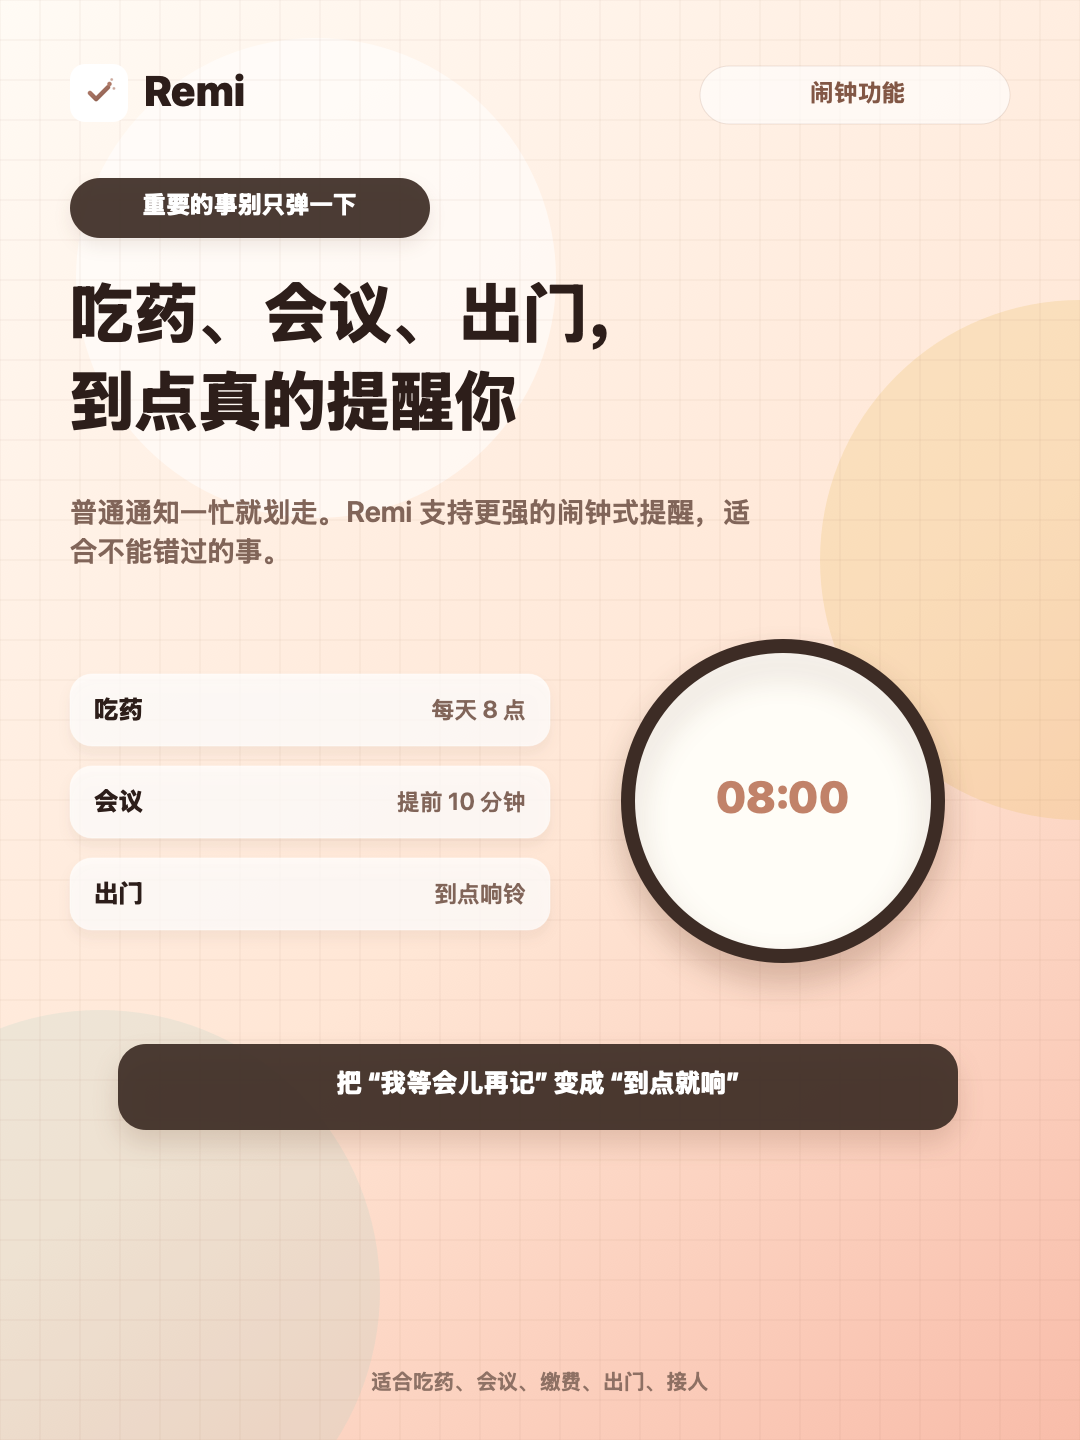
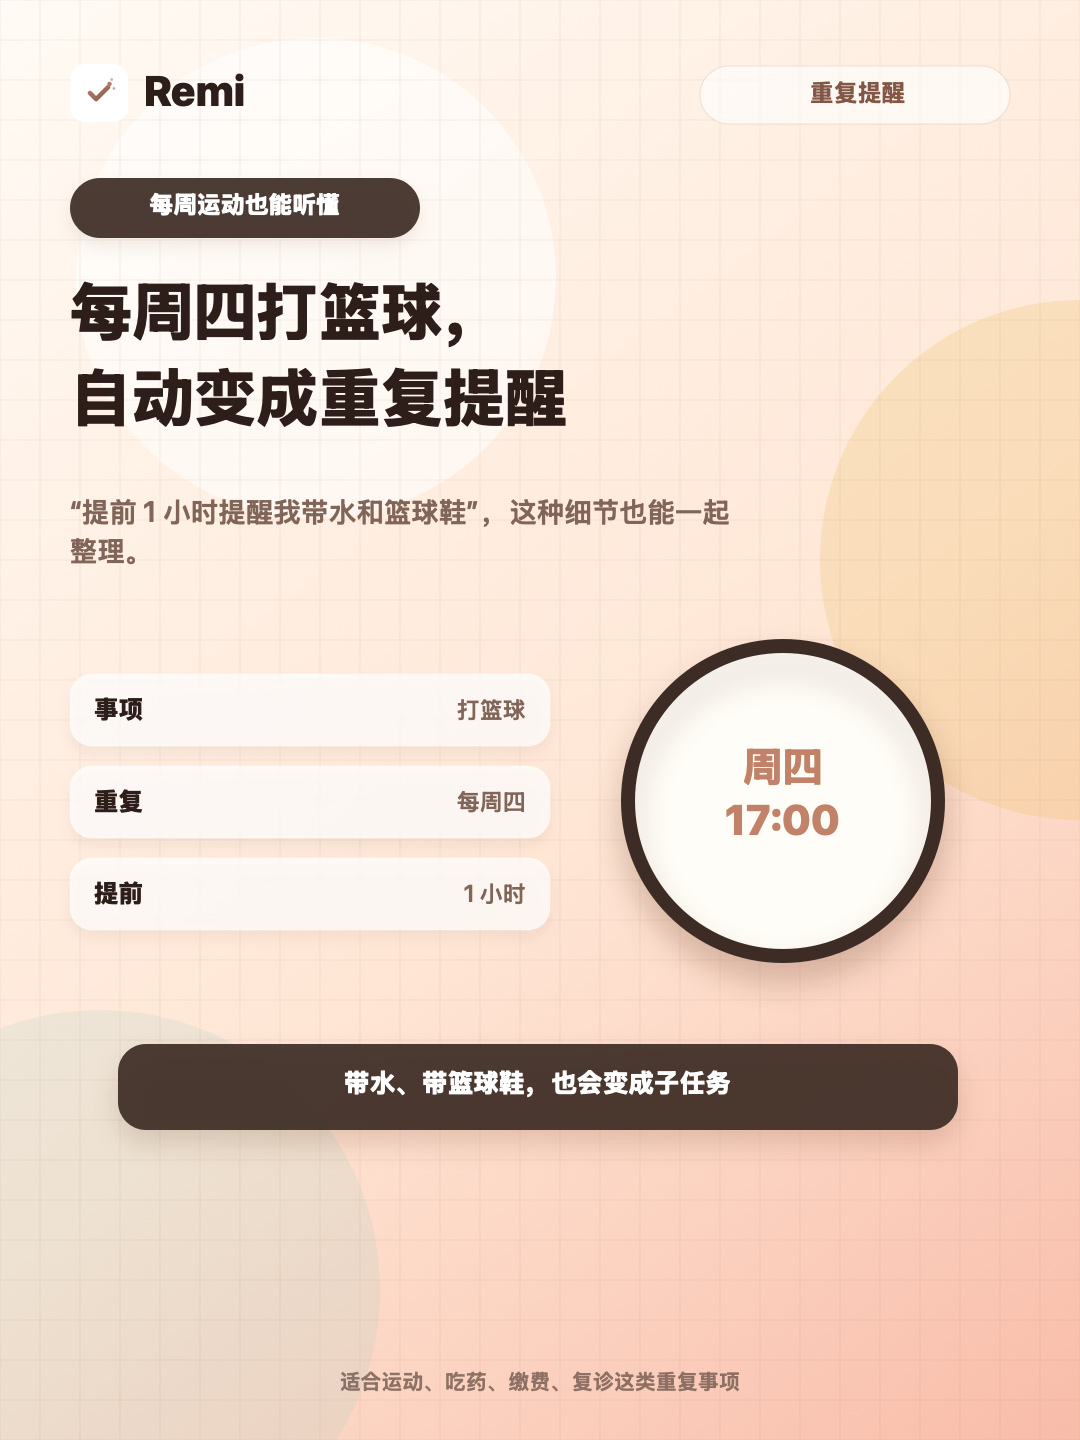
Add Xiaohongshu promo assets for Remi article
Generate a Xiaohongshu-ready caption and update the poster generator/output images around the article examples: supermarket list, weekly basketball reminder, and wake-up alarm.

diff --git a/xhs-posters/generate.swift b/xhs-posters/generate.swift
@@ -156,105 +156,93 @@ func render(_ name: String, warm: Bool = true, draw: () -> Void) throws {
 
 try render("remi-xhs-01.png") {
     drawBrand(tag: "AI 提醒 + 闹钟")
-    drawPill("想到就说，不用打字", x: 70, y: 178, w: 340)
-    drawText("懒得填表的人，\n真的需要 Remi", x: 70, y: 270, w: 630, h: 200, size: 74, weight: .heavy, lineSpacing: 8)
-    drawText("说一句话，AI 自动建提醒；重要的事还能像闹钟一样叫你。", x: 70, y: 492, w: 570, h: 92, size: 29, weight: .semibold, color: Palette.muted)
+    drawPill("手动填提醒太麻烦？", x: 70, y: 178, w: 380)
+    drawText("说一句话，\nAI 帮你建好提醒", x: 70, y: 270, w: 660, h: 200, size: 72, weight: .heavy, lineSpacing: 8)
+    drawText("超市清单、每周运动、起床闹钟，都可以自然说出来。Remi 自动整理好标题、时间和子任务。", x: 70, y: 492, w: 600, h: 116, size: 29, weight: .semibold, color: Palette.muted)
     drawChip("语音速记", x: 70, y: 620, w: 150)
     drawChip("AI 整理", x: 238, y: 620, w: 138)
     drawChip("闹钟提醒", x: 394, y: 620, w: 150)
     drawChip("中英双语", x: 70, y: 690, w: 150)
     drawPhone("voice", x: 640, y: 520, w: 350)
     fillRounded(r(70, 1022, 500, 92), radius: 28, color: Palette.dark.withAlphaComponent(0.92), shadow: shadow())
-    drawText("普通通知容易错过，\n重要的事要响起来。", x: 102, y: 1040, w: 436, h: 56, size: 26, weight: .heavy, color: .white, align: .center, lineSpacing: 3)
-    drawFooter("评论「提醒」获取下载 / 内测链接")
+    drawText("想到就说，不用填表", x: 102, y: 1050, w: 436, h: 36, size: 27, weight: .heavy, color: .white, align: .center)
+    drawFooter("Remi 已上架 App Store · 7 天免费试用")
 }
 
 try render("remi-xhs-02.png") {
-    drawBrand(tag: "语音速记")
-    drawPill("一句话创建提醒", x: 70, y: 178, w: 300)
-    drawText("走路、做饭、\n通勤时，直接说", x: 70, y: 270, w: 600, h: 190, size: 72, weight: .heavy, lineSpacing: 8)
-    drawText("不用切到日历，不用一个个选时间，把脑子里的事先倒出来。", x: 70, y: 492, w: 560, h: 92, size: 29, weight: .semibold, color: Palette.muted)
+    drawBrand(tag: "一句话输入")
+    drawPill("把脑子里的事直接倒出来", x: 70, y: 178, w: 440)
+    drawText("这一整段，\n可以直接说给 Remi", x: 70, y: 270, w: 760, h: 190, size: 68, weight: .heavy, lineSpacing: 8)
+    drawText("不用分三次创建，也不用手动选重复、提前提醒和闹钟。", x: 70, y: 492, w: 680, h: 82, size: 29, weight: .semibold, color: Palette.muted)
     drawPhone("voice", x: 92, y: 640, w: 340)
-    fillRounded(r(456, 710, 520, 132), radius: 34, color: Palette.dark.withAlphaComponent(0.94), shadow: shadow(30, y: -16, alpha: 0.20))
-    drawText("“明天早上 8 点叫我吃药，\n提前 10 分钟响。”", x: 492, y: 736, w: 448, h: 78, size: 28, weight: .heavy, color: .white, align: .center)
-    fillRounded(r(506, 884, 410, 92), radius: 28, color: color(1, 1, 1, 0.78), shadow: shadow(18, y: -10, alpha: 0.10))
-    drawText("Remi 会把这句话变成\n一条可提醒的任务。", x: 532, y: 904, w: 358, h: 56, size: 23, weight: .bold, color: Palette.muted, align: .center)
-    drawFooter("适合突然想起事情、但不想打字的时刻")
+    fillRounded(r(456, 650, 520, 258), radius: 34, color: Palette.dark.withAlphaComponent(0.94), shadow: shadow(30, y: -16, alpha: 0.20))
+    drawText("“下午 4 点去超市，\n买苹果、西瓜、牛奶、洗发水。\n每周四 5 点打篮球，\n提前 1 小时提醒。\n明天早上 9 点叫我起床。”", x: 492, y: 676, w: 448, h: 206, size: 25, weight: .heavy, color: .white, align: .center, lineSpacing: 5)
+    fillRounded(r(506, 944, 410, 92), radius: 28, color: color(1, 1, 1, 0.78), shadow: shadow(18, y: -10, alpha: 0.10))
+    drawText("AI 自动拆成\n多个结构化提醒。", x: 532, y: 964, w: 358, h: 56, size: 23, weight: .bold, color: Palette.muted, align: .center)
+    drawFooter("适合突然想起一堆事、但不想打字的时刻")
 }
 
 try render("remi-xhs-03.png") {
     drawBrand(tag: "AI 智能整理")
-    drawPill("不是只记一句话", x: 70, y: 178, w: 310)
-    drawText("AI 帮你拆好\n时间、清单和子任务", x: 70, y: 270, w: 780, h: 190, size: 68, weight: .heavy, lineSpacing: 8)
-    drawText("自然说话也能变成结构化提醒，少一步手动编辑。", x: 70, y: 490, w: 610, h: 70, size: 29, weight: .semibold, color: Palette.muted)
-    drawRow("标题", value: "吃药", x: 70, y: 650, w: 470)
-    drawRow("时间", value: "明天 8:00", x: 70, y: 742, w: 470)
-    drawRow("清单", value: "健康", x: 70, y: 834, w: 470)
-    drawRow("提醒", value: "提前 10 分钟", x: 70, y: 926, w: 470)
+    drawPill("超市清单自动拆好", x: 70, y: 178, w: 350)
+    drawText("去超市这件事，\n不用再手动列清单", x: 70, y: 270, w: 780, h: 190, size: 68, weight: .heavy, lineSpacing: 8)
+    drawText("一句“下午 4 点去超市买东西”，Remi 会整理成提醒 + 可勾选子任务。", x: 70, y: 490, w: 690, h: 90, size: 29, weight: .semibold, color: Palette.muted)
+    drawRow("提醒", value: "下午 4:00 去超市", x: 70, y: 650, w: 520)
+    drawRow("子任务", value: "苹果 / 西瓜", x: 70, y: 742, w: 520)
+    drawRow("子任务", value: "一箱牛奶", x: 70, y: 834, w: 520)
+    drawRow("子任务", value: "洗发水", x: 70, y: 926, w: 520)
     drawPhone("details", x: 626, y: 555, w: 360)
-    drawFooter("离线时也有本地解析兜底")
+    drawFooter("到超市后，打开清单一个个勾掉")
 }
 
 try render("remi-xhs-04.png") {
-    drawBrand(tag: "闹钟功能")
-    drawPill("重要的事别只弹一下", x: 70, y: 178, w: 360)
-    drawText("吃药、会议、出门，\n到点真的提醒你", x: 70, y: 270, w: 780, h: 190, size: 68, weight: .heavy, lineSpacing: 8)
-    drawText("普通通知一忙就划走。Remi 支持更强的闹钟式提醒，适合不能错过的事。", x: 70, y: 494, w: 700, h: 92, size: 29, weight: .semibold, color: Palette.muted)
+    drawBrand(tag: "重复提醒")
+    drawPill("每周运动也能听懂", x: 70, y: 178, w: 350)
+    drawText("每周四打篮球，\n自动变成重复提醒", x: 70, y: 270, w: 800, h: 190, size: 66, weight: .heavy, lineSpacing: 8)
+    drawText("“提前 1 小时提醒我带水和篮球鞋”，这种细节也能一起整理。", x: 70, y: 494, w: 700, h: 92, size: 29, weight: .semibold, color: Palette.muted)
     fillRounded(r(628, 646, 310, 310), radius: 155, color: color(1, 0.99, 0.96), shadow: shadow(34, y: -18, alpha: 0.22), stroke: Palette.dark, lineWidth: 14)
-    drawText("08:00", x: 682, y: 770, w: 202, h: 62, size: 44, weight: .heavy, color: Palette.clay, align: .center)
-    drawRow("吃药", value: "每天 8 点", x: 70, y: 674, w: 480)
-    drawRow("会议", value: "提前 10 分钟", x: 70, y: 766, w: 480)
-    drawRow("出门", value: "到点响铃", x: 70, y: 858, w: 480)
+    drawText("周四\n17:00", x: 682, y: 740, w: 202, h: 104, size: 42, weight: .heavy, color: Palette.clay, align: .center, lineSpacing: 4)
+    drawRow("事项", value: "打篮球", x: 70, y: 674, w: 480)
+    drawRow("重复", value: "每周四", x: 70, y: 766, w: 480)
+    drawRow("提前", value: "1 小时", x: 70, y: 858, w: 480)
     fillRounded(r(118, 1044, 840, 86), radius: 28, color: Palette.dark.withAlphaComponent(0.92), shadow: shadow())
-    drawText("把“我等会儿再记”变成“到点就响”", x: 150, y: 1066, w: 776, h: 42, size: 27, weight: .heavy, color: .white, align: .center)
-    drawFooter("适合吃药、会议、缴费、出门、接人")
+    drawText("带水、带篮球鞋，也会变成子任务", x: 150, y: 1066, w: 776, h: 42, size: 27, weight: .heavy, color: .white, align: .center)
+    drawFooter("适合运动、吃药、缴费、复诊这类重复事项")
 }
 
 try render("remi-xhs-05.png", warm: false) {
-    drawBrand(tag: "适用场景")
-    drawPill("这些事最适合交给 Remi", x: 70, y: 178, w: 430)
-    drawText("别再靠脑子\n硬记生活琐事", x: 70, y: 270, w: 720, h: 188, size: 72, weight: .heavy, lineSpacing: 8)
-    drawText("学习、工作、生活、健康，都可以用一句话塞进提醒里。", x: 70, y: 494, w: 650, h: 70, size: 29, weight: .semibold, color: Palette.muted)
-    let cards = [
-        ("学生党", "DDL、考试、作业\n社团活动"),
-        ("上班族", "会议、报销、客户跟进\n周报"),
-        ("生活党", "缴费、取快递、买菜\n关火"),
-        ("健康管理", "吃药、喝水、复诊\n运动")
-    ]
-    for (index, item) in cards.enumerated() {
-        let col = CGFloat(index % 2)
-        let row = CGFloat(index / 2)
-        let x = 70 + col * 485
-        let y = 670 + row * 210
-        fillRounded(r(x, y, 440, 170), radius: 30, color: color(1, 1, 1, 0.72), shadow: shadow(18, y: -10, alpha: 0.10), stroke: color(1, 1, 1, 0.50))
-        drawText(item.0, x: x + 28, y: y + 28, w: 384, h: 42, size: 30, weight: .heavy)
-        drawText(item.1, x: x + 28, y: y + 82, w: 384, h: 64, size: 24, weight: .semibold, color: Palette.muted, lineSpacing: 4)
-    }
-    drawFooter("评论区告诉我：你最常忘什么？")
+    drawBrand(tag: "闹钟叫醒")
+    drawPill("重要的事别只弹一下", x: 70, y: 178, w: 360)
+    drawText("明天早上 9 点，\n真的叫你起床", x: 70, y: 270, w: 720, h: 188, size: 72, weight: .heavy, lineSpacing: 8)
+    drawText("像起床、赶车、重要会议这种不能错过的事，可以用更强的闹钟提醒。", x: 70, y: 494, w: 680, h: 92, size: 29, weight: .semibold, color: Palette.muted)
+    fillRounded(r(306, 660, 468, 468), radius: 234, color: color(1, 0.99, 0.96), shadow: shadow(40, y: -22, alpha: 0.22), stroke: Palette.dark, lineWidth: 18)
+    drawText("09:00", x: 386, y: 822, w: 308, h: 82, size: 66, weight: .heavy, color: Palette.clay, align: .center)
+    drawText("叫我起床", x: 386, y: 910, w: 308, h: 48, size: 34, weight: .heavy, color: Palette.muted, align: .center)
+    drawFooter("把“明天再说”变成“到点就响”")
 }
 
 try render("remi-xhs-06.png") {
-    drawBrand(tag: "隐私 + 同步")
-    drawPill("好用，也要安心", x: 70, y: 178, w: 300)
-    drawText("无账号、无广告，\n用自己的 iCloud 同步", x: 70, y: 270, w: 820, h: 190, size: 66, weight: .heavy, lineSpacing: 8)
-    drawText("提醒存在你的设备和私人 iCloud。没有第三方广告追踪，也不需要注册登录。", x: 70, y: 494, w: 700, h: 92, size: 29, weight: .semibold, color: Palette.muted)
+    drawBrand(tag: "适用场景")
+    drawPill("这些事最适合交给 Remi", x: 70, y: 178, w: 430)
+    drawText("生活里那些小事，\n别再靠脑子硬记", x: 70, y: 270, w: 820, h: 190, size: 66, weight: .heavy, lineSpacing: 8)
+    drawText("买菜、运动、起床、会议、吃药、缴费，都可以用一句话塞进提醒里。", x: 70, y: 494, w: 710, h: 92, size: 29, weight: .semibold, color: Palette.muted)
     drawPhone("widget", x: 610, y: 608, w: 340)
-    drawRow("无账号", value: "打开就能用", x: 70, y: 690, w: 470)
-    drawRow("无广告", value: "不打扰", x: 70, y: 782, w: 470)
-    drawRow("iCloud", value: "多设备同步", x: 70, y: 874, w: 470)
+    drawRow("生活", value: "买菜 / 取快递", x: 70, y: 690, w: 470)
+    drawRow("健康", value: "吃药 / 运动", x: 70, y: 782, w: 470)
+    drawRow("工作", value: "会议 / 周报", x: 70, y: 874, w: 470)
     drawFooter("主屏小组件让今天的提醒一眼可见")
 }
 
 try render("remi-xhs-07.png", warm: false) {
     drawBrand(tag: "下载互动")
     drawPill("想试试这个 AI 提醒 App？", x: 70, y: 178, w: 430)
-    drawText("评论「提醒」", x: 70, y: 284, w: 940, h: 120, size: 86, weight: .heavy, align: .center)
-    drawText("我发你下载 / 内测链接。也想知道：你最希望 Remi 用闹钟提醒你什么？", x: 140, y: 428, w: 800, h: 94, size: 29, weight: .semibold, color: Palette.muted, align: .center)
+    drawText("App Store\n免费下载体验", x: 70, y: 260, w: 940, h: 190, size: 78, weight: .heavy, align: .center, lineSpacing: 8)
+    drawText("Remi 已上架，支持 7 天免费试用。也想知道：你最希望它提醒你什么？", x: 140, y: 478, w: 800, h: 94, size: 29, weight: .semibold, color: Palette.muted, align: .center)
     drawPhone("themes", x: 370, y: 560, w: 340)
     fillRounded(r(112, 1016, 856, 184), radius: 40, color: Palette.dark.withAlphaComponent(0.94), shadow: shadow(34, y: -18, alpha: 0.24))
     drawText("语音创建提醒\nAI 整理，到点响铃", x: 154, y: 1044, w: 772, h: 88, size: 38, weight: .heavy, color: .white, align: .center, lineSpacing: 4)
     drawText("中英双语 · iCloud 同步 · 7 天免费试用", x: 154, y: 1146, w: 772, h: 34, size: 24, weight: .semibold, color: color(0.95, 0.82, 0.75), align: .center)
-    drawFooter("Remi · Voice-first AI reminders")
+    drawFooter("https://apps.apple.com/app/id6792330658")
 }
 
 print("Generated posters in \(outputRoot.path)")

diff --git a/xhs-posters/articles/xhs-promo-copy.md b/xhs-posters/articles/xhs-promo-copy.md
@@ -1,0 +1,62 @@
+# 小红书发布文案：Remi - 说句话，AI 自动建提醒和闹钟
+
+## 标题备选
+
+1. 我做了个 App：说句话，AI 自动帮你建提醒和闹钟
+2. 懒得填提醒的人，真的可以试试 Remi
+3. 从超市清单到起床闹钟，说一句话就搞定
+4. 手动填提醒太麻烦？让 AI 帮你整理好
+5. 我把“语音备忘录 + 提醒事项 + 闹钟”做进了一个 App
+
+## 正文
+
+朋友们，我最近做了一个 iPhone App，叫 **Remi**。
+
+它最适合我这种：脑子里突然冒出一堆事情，但真的不想打开提醒事项一个个填标题、日期、时间、重复、提前提醒的人。
+
+现在只要点一下麦克风，把事情自然说出来，Remi 就会自动帮你整理成结构清楚的提醒和闹钟。
+
+比如你可以直接说：
+
+> 我下午 4 点要去趟超市，买苹果、西瓜、一箱牛奶、一瓶洗发水。  
+> 每周四下午 5 点要打篮球，提醒我带水、带篮球鞋，提前一个小时提醒我。  
+> 明天早晨 9 点叫我起床。
+
+Remi 会自动帮你拆好：
+
+- 超市会变成一个提醒
+- 苹果、西瓜、牛奶、洗发水会变成可以逐个打勾的子任务
+- 每周四打篮球会自动变成重复提醒
+- “提前一个小时”会自动设置提前提醒
+- “叫我起床”这种重要事情可以用闹钟提醒
+
+到点之后，该通知通知，该响铃响铃。去超市的时候直接打开清单一个个勾，不用再翻聊天记录，也不用靠脑子硬记。
+
+我自己做它的原因很简单：很多事情说出来只要 5 秒，但手动填提醒真的很烦。
+
+目前 Remi 已经上架 App Store，可以免费下载体验，有 7 天免费试用。
+
+App Store：
+https://apps.apple.com/app/id6792330658
+
+如果你也经常忘记买东西、吃药、运动、会议、起床，或者只是懒得手动填提醒，可以试试看。
+
+## 评论区互动
+
+你最希望 Remi 帮你提醒什么？
+
+可以评论区告诉我，我也想继续把它做得更好。
+
+## 话题标签
+
+#效率工具 #iPhoneApp #提醒事项 #AI工具 #语音助手 #时间管理 #待办清单 #闹钟 #App推荐 #独立开发
+
+## 图片顺序建议
+
+1. 封面：说一句话，AI 建好提醒和闹钟
+2. 示例原话：超市 + 篮球 + 起床
+3. 超市清单：自动拆成子任务
+4. 每周篮球：重复 + 提前提醒
+5. 起床闹钟：重要事项到点响
+6. 适用场景：生活/工作/健康/学习
+7. 下载 CTA：App Store + 7 天免费试用
